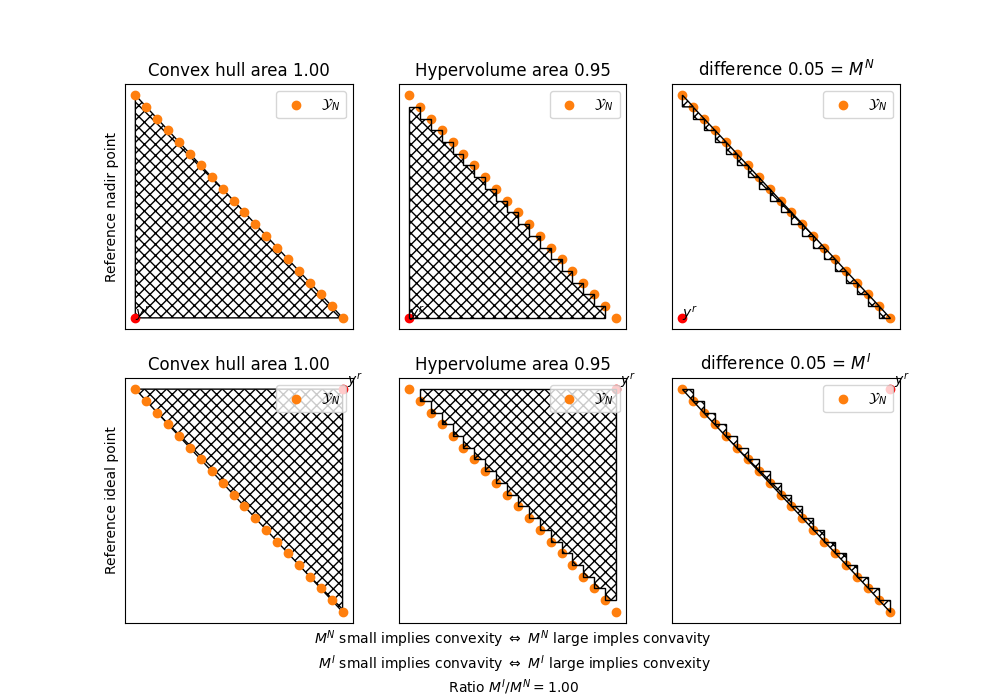
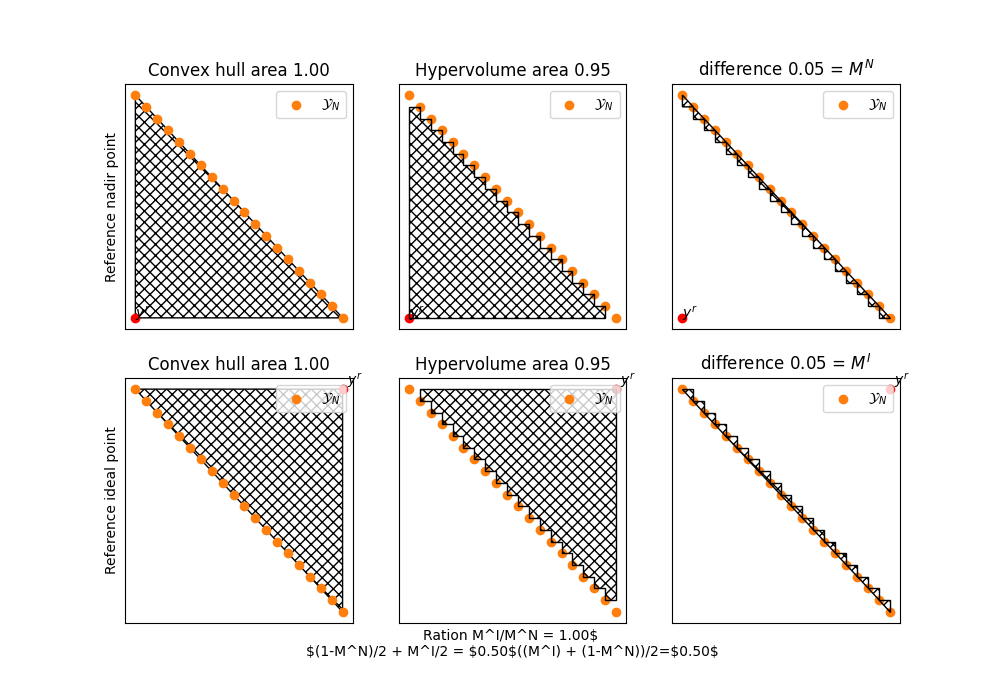
updated plots

Changed region(s): [[0.31, 0.9, 0.713, 0.99]]

diff --git a/src/pdmo/utils/convexity_measure.py b/src/pdmo/utils/convexity_measure.py
@@ -62,7 +62,7 @@ def convexity_measure(Y, figname : str = ''):
 
         P.axs[0,2].set_title(f'difference {M_N:.2f} = $M^N$')
         P.axs[1,2].set_title(f'difference {M_I:.2f} = $M^I$')
-        P.axs[1,1].set_xlabel("$M^N$ small implies convexity $\Leftrightarrow$ $M^N$ large imples convavity \n $M^I$ small implies convavity $\Leftrightarrow$ $M^I$ large implies convexity \n Ratio $M^I/M^N=" + f"{M_I/M_N:.2f}$ \n" + "$(1-M^N)/2 + M^I/2 = $" + f"{(1-M_N)/2 + M_I/2:.2f}" + "$((M^I) + (1-M^N))/2=$"+ f"{M_I/2 + (1-M_N)/2:.2f}$")
+        P.axs[1,1].set_xlabel(f"Ration M^I/M^N = {M_I/M_N:.2f}$ \n" + "$(1-M^N)/2 + M^I/2 = $" + f"{(1-M_N)/2 + M_I/2:.2f}" + "$((M^I) + (1-M^N))/2=$"+ f"{M_I/2 + (1-M_N)/2:.2f}$")
         # P.fig.savefig(f'docs/figures/tests/convexity_measure/measure_id{figname}.pdf')
 
         P.fig.savefig(figname)

diff --git a/readme.md b/readme.md
@@ -5,8 +5,9 @@ Given a discrete Pareto Front $\mathcal{Y}_N \subset \mathbb{R}^2$ we define two
 - $P^N = \bigcup_{y \in \mathcal{Y}_N} Box(y^N, y)$
 
 We define the convexity measures: $M^I$ as the area of $P^I$ divided by the area of $conv(M^I)$ and $M^N$ as the area of $M^N$ divided by the area of $conv(M^N)$.
+$M^N$ small implies convexity $\Leftrightarrow$ $M^N$ large implies concavity. $M^I$ small implies concavity $\Leftrightarrow$ $M^I$ large implies convexity. Ratio M^I/M^N.
 
-We combine these to a single measure $M = M^I + 1-M^N$
+We combine these to a single measure $M = \frac{M^I + (1-M^N)}{2}$ where $1$ indicates convexity and $0$ indicates concavity.
 
 # Usage
 
